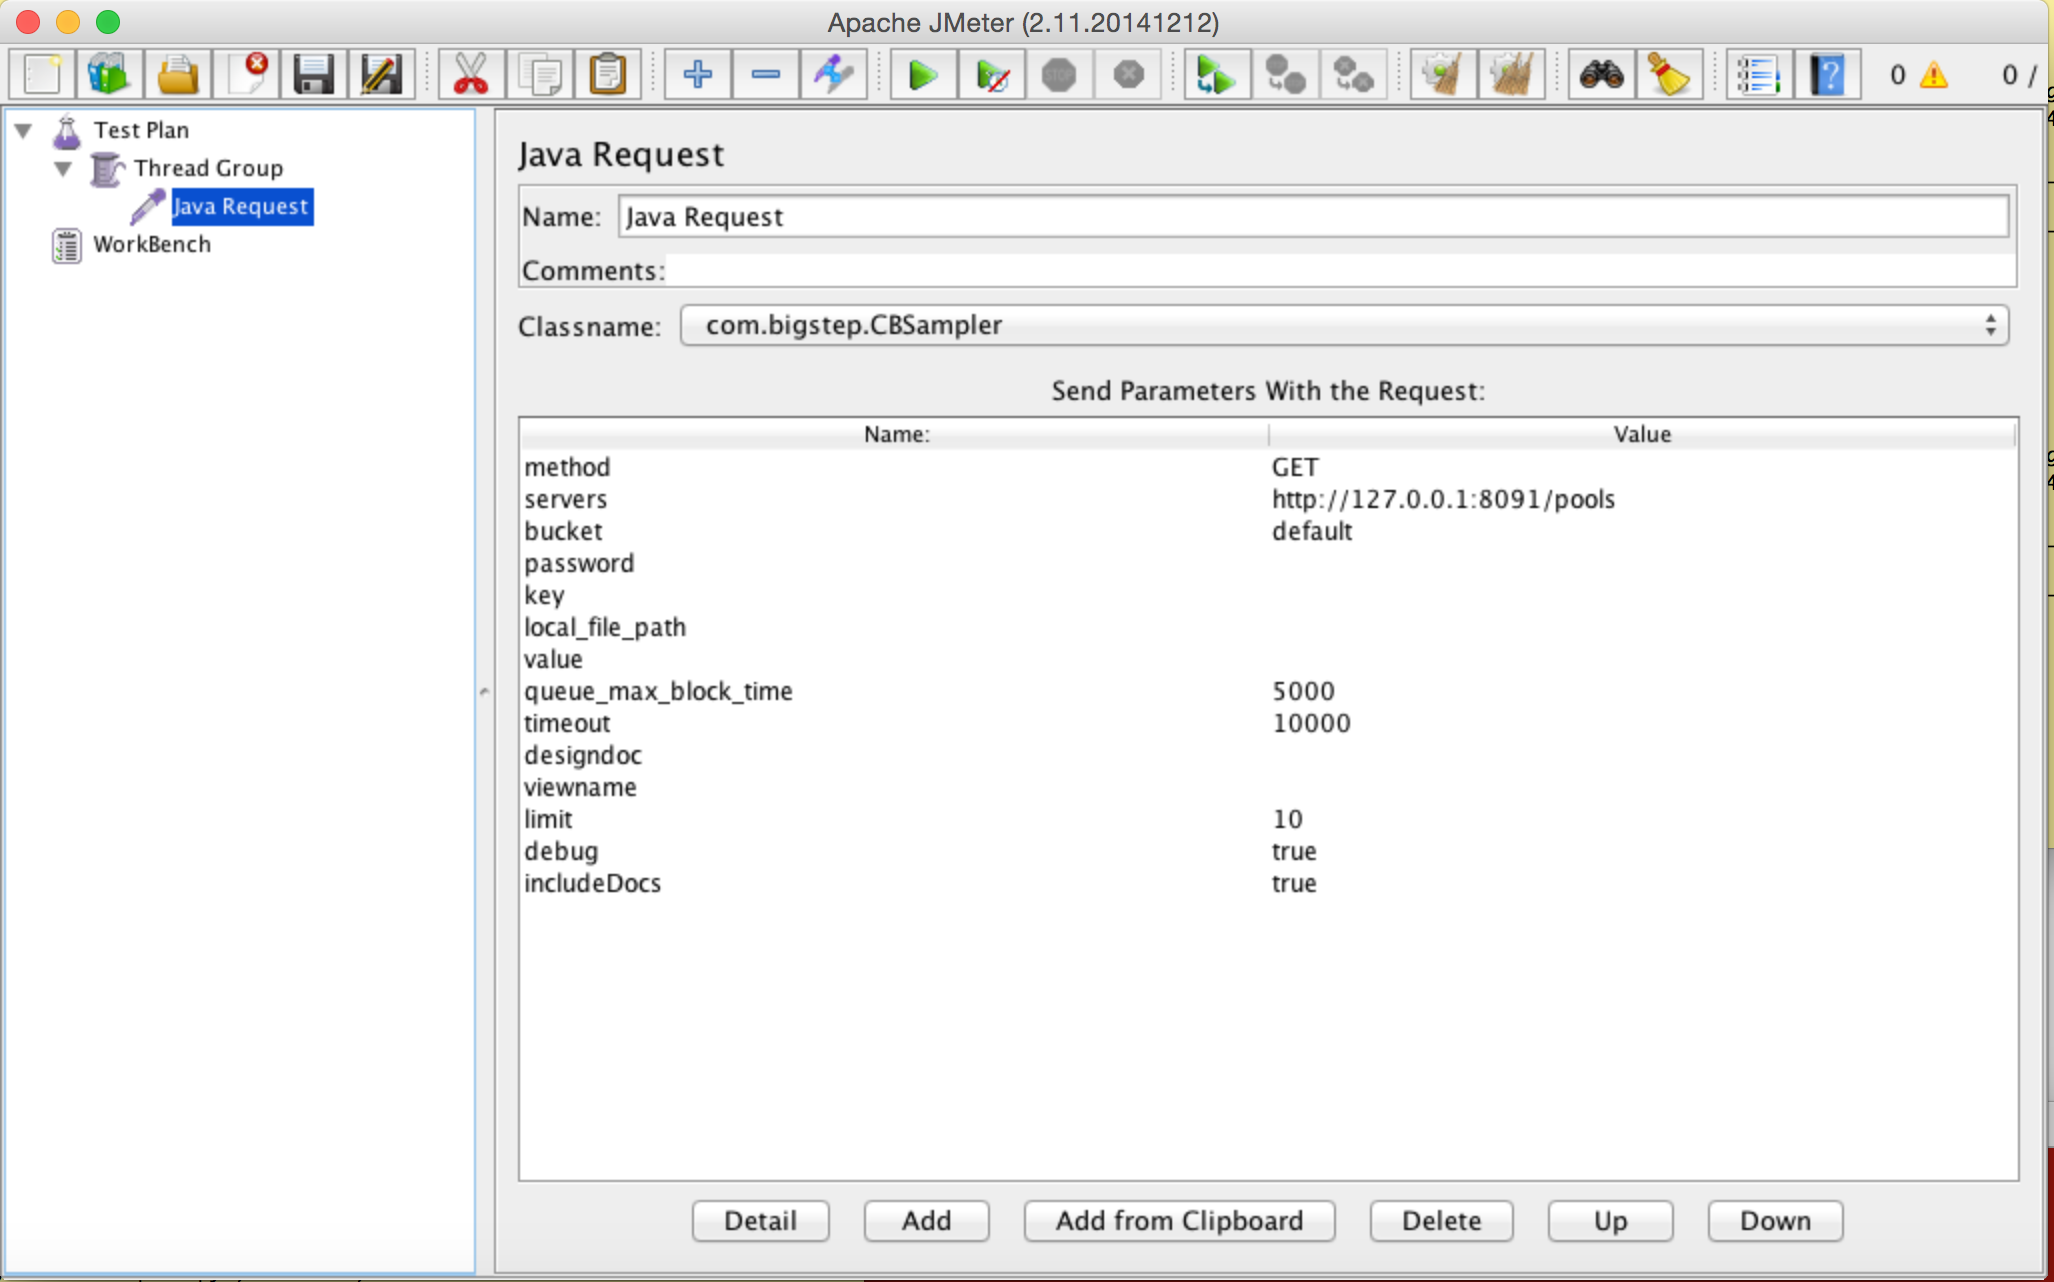
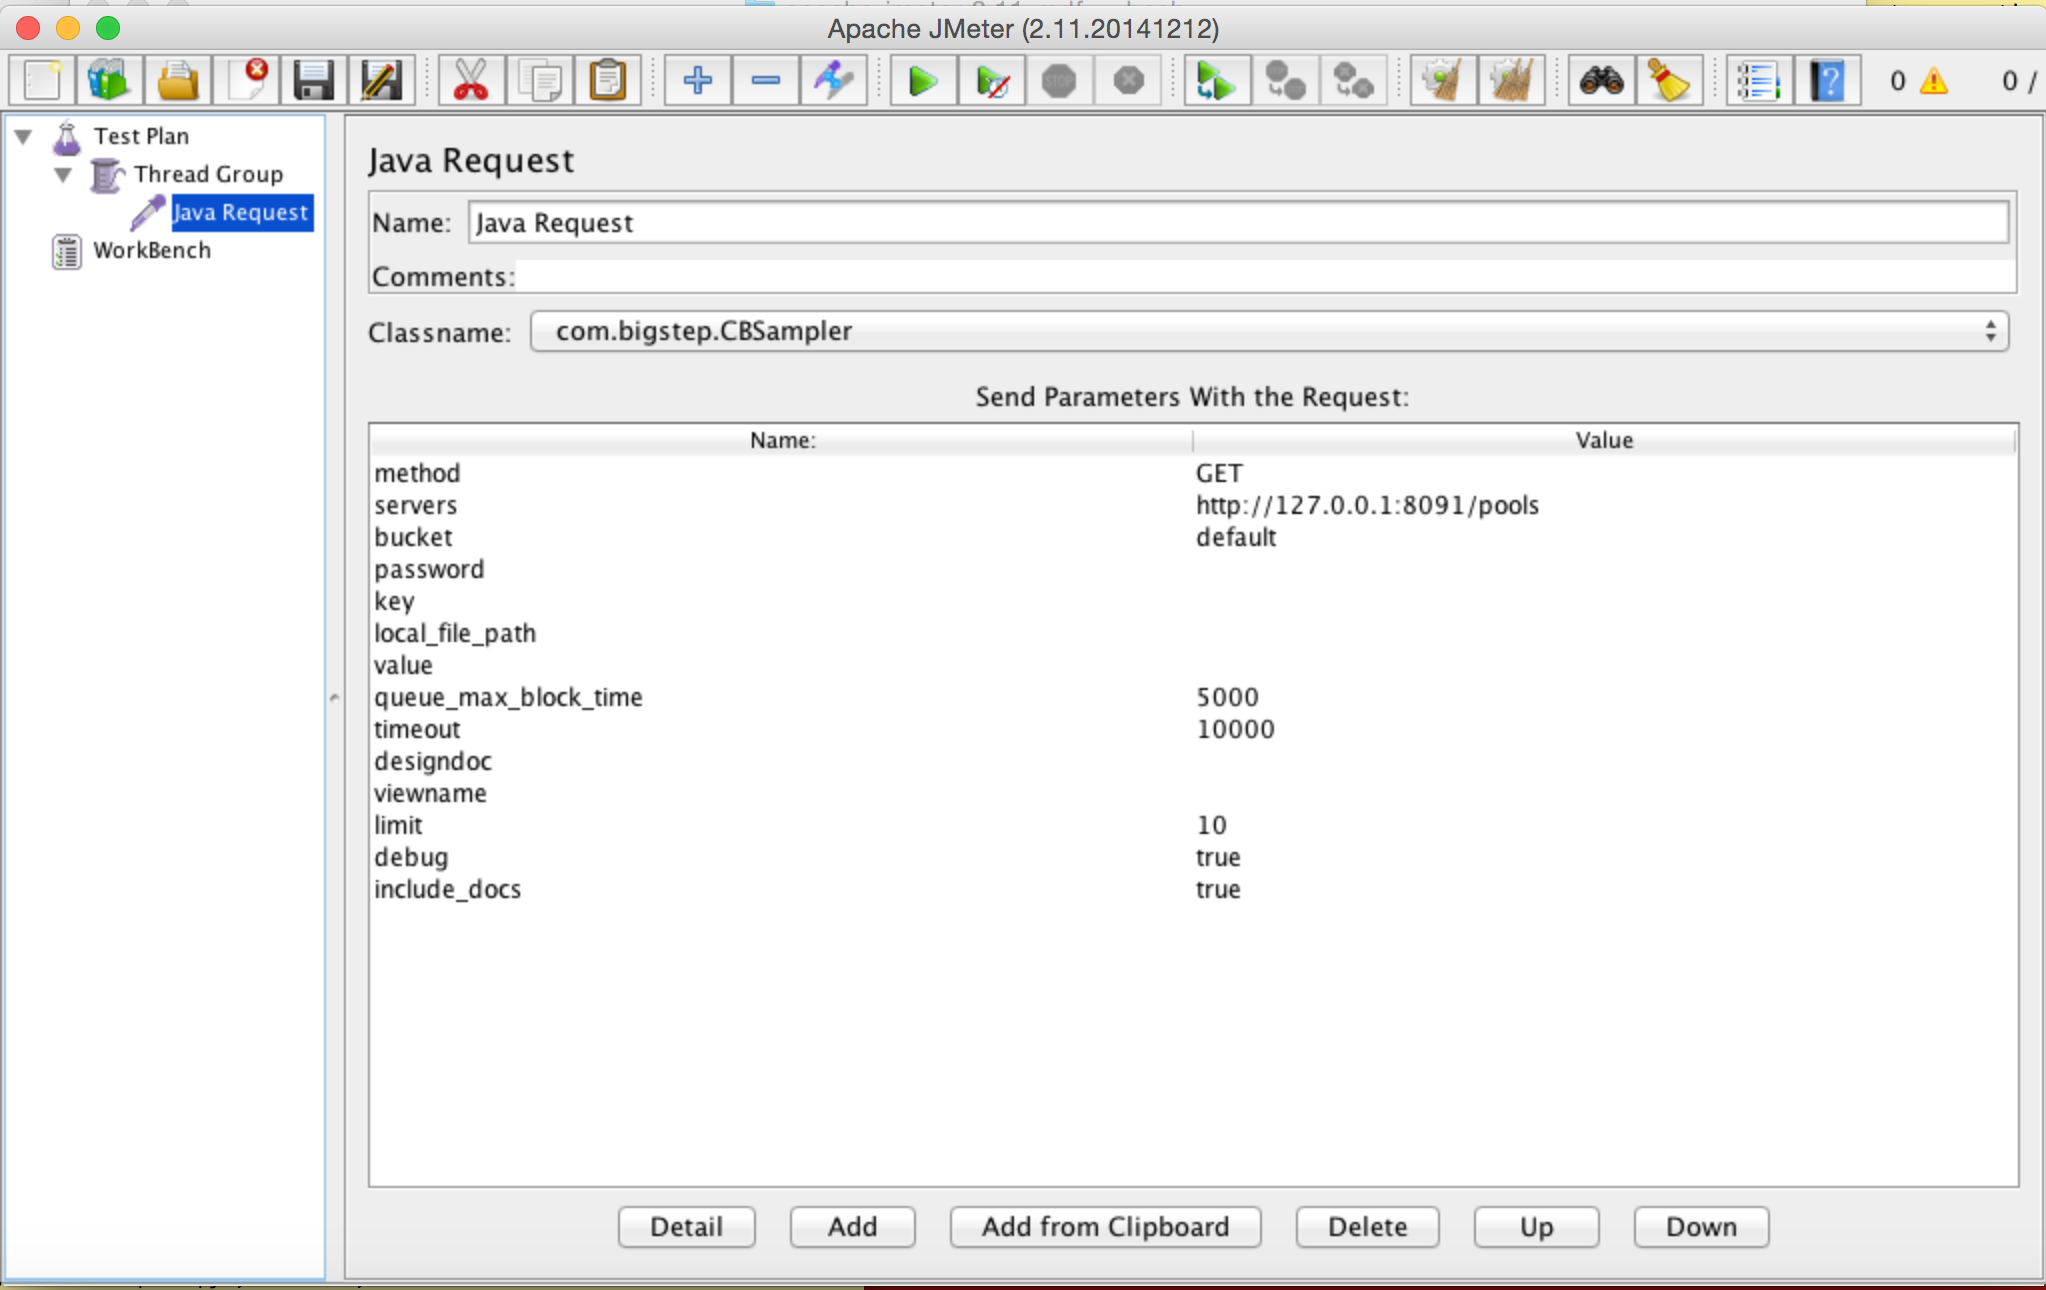
#2 Added support for include_docs as a configurable option

Changed region(s): [[0.0, 0.0, 1.0, 1.0], [0.585, 0.624, 0.6466, 0.7176], [0.585, 0.5304, 0.6466, 0.5928]]

diff --git a/src/protocol/java/org/apache/jmeter/protocol/java/sampler/CBSampler.java b/src/protocol/java/org/apache/jmeter/protocol/java/sampler/CBSampler.java
@@ -55,6 +55,8 @@ public class CBSampler extends AbstractJavaSamplerClient implements Serializable
         defaultParameters.addArgument("viewname", "");
         defaultParameters.addArgument("limit", "10");
         defaultParameters.addArgument("debug", "true");
+        defaultParameters.addArgument("include_docs", "true");
+
         return defaultParameters;
     }
    	
@@ -128,7 +130,7 @@ public class CBSampler extends AbstractJavaSamplerClient implements Serializable
         String designDoc = context.getParameter( "designdoc" );
         String viewName = context.getParameter( "viewname" );
         int limit = Integer.parseInt(context.getParameter( "limit" ));
-	String includeDocs= context.getParameter( "includeDocs" );
+	boolean includeDocs = context.getParameter( "include_docs").equals("true");
         
 	SampleResult result = new SampleResult();
         result.sampleStart(); // start stopwatch
@@ -156,7 +158,7 @@ public class CBSampler extends AbstractJavaSamplerClient implements Serializable
 		{
 			View view = client.getView(designDoc, viewName);
 			Query query = new Query();
-			query.setIncludeDocs(true); // Include the full document body
+			query.setIncludeDocs(includeDocs);
 			query.setLimit(limit);
 			ViewResponse response = client.query(view, query);
 		}
